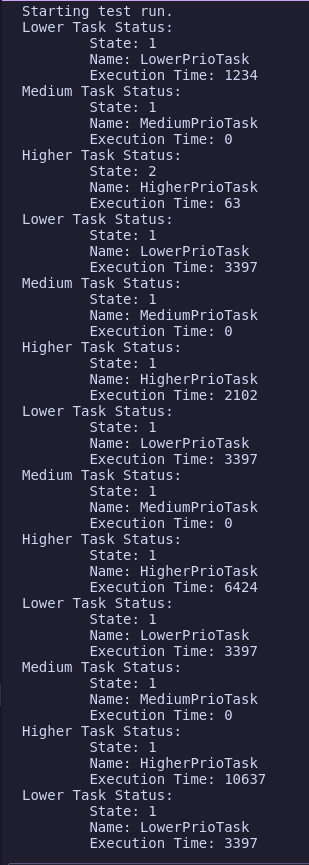
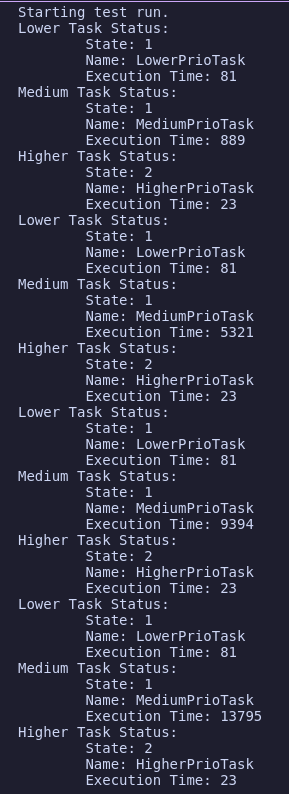
cleaned up status printing to make it more reusable

Changed region(s): [[0.0, 0.0, 1.0, 1.0], [0.0623, 0.3929, 0.218, 0.4836], [0.0623, 0.1511, 0.218, 0.2116]]

diff --git a/test/test.c b/test/test.c
@@ -22,6 +22,27 @@ void setUp(void) {}
 
 void tearDown(void) {}
 
+typedef struct {
+    TaskHandle_t task_handle;
+    const char* task_name;
+} Tasks_To_Print;
+
+void print_task_status(Tasks_To_Print* task_list, size_t task_count) {
+    TaskStatus_t status[task_count];
+
+    // eNums for Task States:
+    // eRunning == 0
+    // eReady   == 1
+    // eBlocked == 2
+    for(int i=0; i < 5; i++) {
+        for(int i=0; i < task_count; i++) {
+            vTaskGetInfo(task_list[i].task_handle, &status[i], pdFALSE, eInvalid);
+            printf("Task %s Status:\n\tState: %d\n\tName: %s\n\tExecution Time: %llu\n", task_list[i].task_name, status[i].eCurrentState, status[i].pcTaskName, status[i].ulRunTimeCounter);
+        }
+        vTaskDelay(pdMS_TO_TICKS(5));
+    }
+}
+
 void higher_prio_task(void *params) {
     SemaphoreHandle_t lock = (*(SemaphoreHandle_t*)params);
     while(1) {
@@ -47,7 +68,36 @@ void lower_prio_task(void *params) {
 }
 
 void test_priority_inversion() {
-    // SemaphoreHandle_t lock = xSemaphoreCreateBinary();
+    SemaphoreHandle_t lock = xSemaphoreCreateBinary();
+    xSemaphoreGive(lock);
+    TaskHandle_t lower_task;
+    TaskHandle_t medium_task;
+    TaskHandle_t higher_task;
+    xTaskCreate(lower_prio_task, "LowerPrioTask",
+                LOWER_TASK_STACK_SIZE, (void *)&lock, LOWER_TASK_PRIORITY, &lower_task);
+    vTaskDelay(pdMS_TO_TICKS(1));
+    xTaskCreate(higher_prio_task, "HigherPrioTask",
+                HIGHER_TASK_STACK_SIZE, (void *)&lock, HIGHER_TASK_PRIORITY, &higher_task);
+    xTaskCreate(medium_prio_task, "MediumPrioTask",
+                MEDIUM_TASK_STACK_SIZE, NULL, MEDIUM_TASK_PRIORITY, &medium_task);
+
+    // Block for 1ms to allow HigherPrioTask & MediumPrioTask to run
+    vTaskDelay(pdMS_TO_TICKS(1));
+
+    Tasks_To_Print task_list[] = {
+        { lower_task, "low priority" },
+        { medium_task, "medium priority" },
+        { higher_task, "high priority" },
+    };
+
+    print_task_status(task_list, 3);
+
+    vTaskDelete(lower_task);
+    vTaskDelete(medium_task);
+    vTaskDelete(higher_task);
+}
+
+void test_priority_inversion_with_mutex() {
     SemaphoreHandle_t lock = xSemaphoreCreateMutex();
     xSemaphoreGive(lock);
     TaskHandle_t lower_task;
@@ -67,41 +117,37 @@ void test_priority_inversion() {
     // Block for 1ms to allow HigherPrioTask & MediumPrioTask to run
     vTaskDelay(pdMS_TO_TICKS(1));
 
-    // eNums for Task States:
-    // eRunning == 0
-    // eReady   == 1
-    // eBlocked == 2
+    Tasks_To_Print task_list[] = {
+        { lower_task, "low priority" },
+        { medium_task, "medium priority" },
+        { higher_task, "high priority" },
+    };
 
-    vTaskGetInfo(lower_task, &lower_task_status, pdFALSE, eInvalid);
-    vTaskGetInfo(medium_task, &medium_task_status, pdFALSE, eInvalid);
-    vTaskGetInfo(higher_task, &higher_task_status, pdFALSE, eInvalid);
-    printf("Lower Task Status:\n\tState: %d\n\tName: %s\n\tExecution Time: %llu\n", lower_task_status.eCurrentState, lower_task_status.pcTaskName, lower_task_status.ulRunTimeCounter);
-    printf("Medium Task Status:\n\tState: %d\n\tName: %s\n\tExecution Time: %llu\n", medium_task_status.eCurrentState, medium_task_status.pcTaskName, medium_task_status.ulRunTimeCounter);
-    printf("Higher Task Status:\n\tState: %d\n\tName: %s\n\tExecution Time: %llu\n", higher_task_status.eCurrentState, higher_task_status.pcTaskName, higher_task_status.ulRunTimeCounter);
-
-    // Capture current runtime values
-    // For each 5ms interval:
-    //    lower should stay the same
-    //    medium should increase
-    //    higher should stay the same
-    // Showing priority inversion
-    uint64_t lower_prio_runtime = lower_task_status.ulRunTimeCounter;
-    uint64_t medium_prio_runtime = medium_task_status.ulRunTimeCounter;
-    uint64_t higher_prio_runtime = higher_task_status.ulRunTimeCounter;
-
-    for(int i = 0; i < 4; i++) {
-        vTaskDelay(pdMS_TO_TICKS(5));
-        vTaskGetInfo(lower_task, &lower_task_status, pdFALSE, eInvalid);
-        vTaskGetInfo(medium_task, &medium_task_status, pdFALSE, eInvalid);
-        vTaskGetInfo(higher_task, &higher_task_status, pdFALSE, eInvalid);
-        printf("Lower Task Status:\n\tState: %d\n\tName: %s\n\tExecution Time: %llu\n", lower_task_status.eCurrentState, lower_task_status.pcTaskName, lower_task_status.ulRunTimeCounter);
-        printf("Medium Task Status:\n\tState: %d\n\tName: %s\n\tExecution Time: %llu\n", medium_task_status.eCurrentState, medium_task_status.pcTaskName, medium_task_status.ulRunTimeCounter);
-        printf("Higher Task Status:\n\tState: %d\n\tName: %s\n\tExecution Time: %llu\n", higher_task_status.eCurrentState, higher_task_status.pcTaskName, higher_task_status.ulRunTimeCounter);
-    }
+    print_task_status(task_list, 3);
 
     vTaskDelete(lower_task);
     vTaskDelete(medium_task);
     vTaskDelete(higher_task);
+
+    // give time for cleanup
+    vTaskDelay(pdMS_TO_TICKS(1));
+}
+
+void test_same_priority_busy_busy(void) {
+
+    // xTaskCreate(lower_prio_task, "LowerPrioTask",
+    //             LOWER_TASK_STACK_SIZE, (void *)&lock, LOWER_TASK_PRIORITY, &lower_task);
+
+    TaskHandle_t task1;
+    TaskHandle_t task2;
+
+    xTaskCreate(busy_busy, "task 1",
+                LOWER_TASK_STACK_SIZE, NULL, LOWER_TASK_PRIORITY, &task1);
+    xTaskCreate(busy_busy, "task 2",
+                LOWER_TASK_STACK_SIZE, NULL, LOWER_TASK_PRIORITY, &task2);
+
+    // printf("Task 1 Status:\n\tState: %d\n\tName: %s\n\tExecution Time: %llu\n", lower_task_status.eCurrentState, lower_task_status.pcTaskName, lower_task_status.ulRunTimeCounter);
+    // printf("Task 2 Status:\n\tState: %d\n\tName: %s\n\tExecution Time: %llu\n", medium_task_status.eCurrentState, medium_task_status.pcTaskName, medium_task_status.ulRunTimeCounter);
 }
 
 void runner_thread (__unused void *args)
@@ -110,6 +156,7 @@ void runner_thread (__unused void *args)
         printf("Starting test run.\n");
         UNITY_BEGIN();
         RUN_TEST(test_priority_inversion);
+        RUN_TEST(test_priority_inversion_with_mutex);
         UNITY_END();
         sleep_ms(5000);
     }

diff --git a/README.md b/README.md
@@ -12,7 +12,7 @@ Lab06 stuff goes here.
 
 For this activity we were asked to setup three threads, where the lower priority thread takes a lock and holds it, a high priority thread tries to take that lock after a delay, and a medium priority lock executes some code.
 
-We found that the higher priority thread was blocked while the lower priority thread kept the lock, which resulted in the medium priority thread being ran for a majority of the time.
+We found that the higher priority thread was blocked while the lower priority thread kept the lock, which resulted in the medium priority thread being ran for a majority of the time and not allowing the lower priority to complete its work.
 
 This is an example of priority inversion.
 
